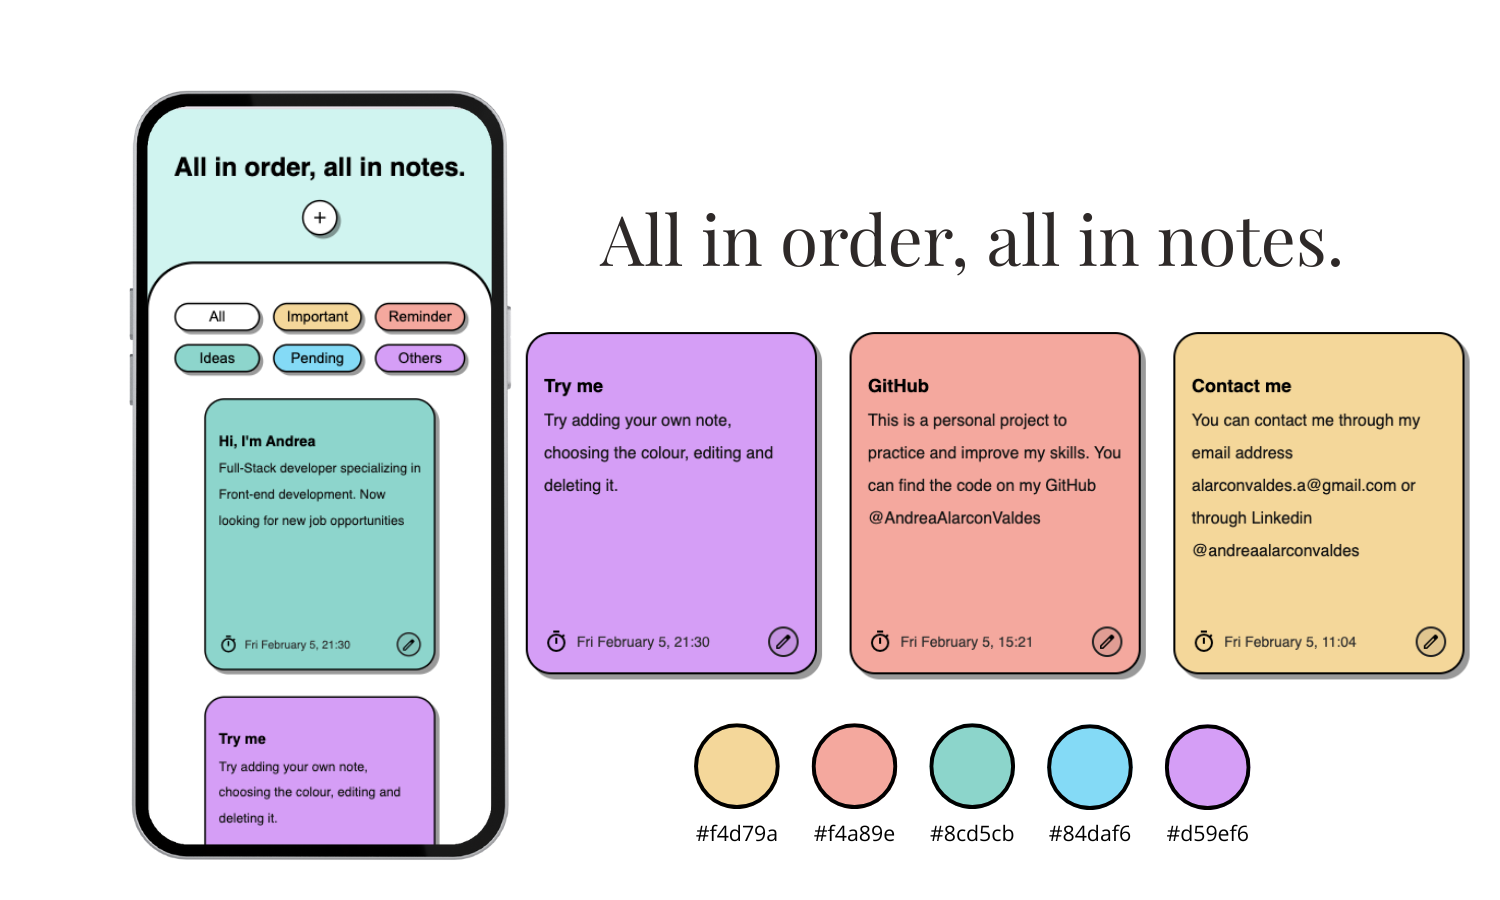
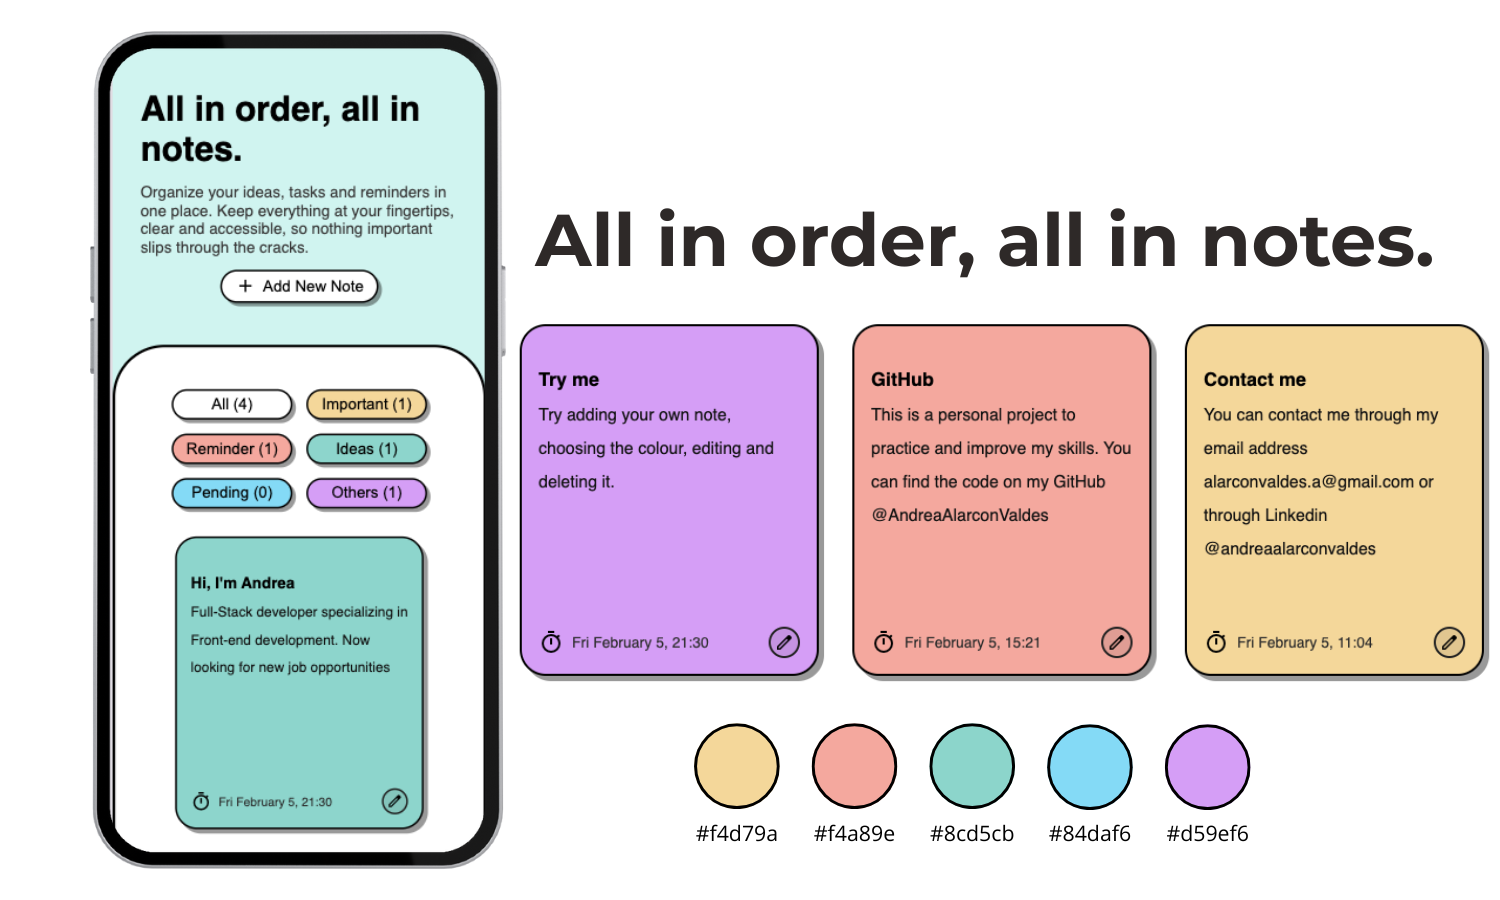
Add title

Changed region(s): [[0.0613, 0.0311, 1.0, 0.9644]]

diff --git a/src/components/note/NoteBoard.css b/src/components/note/NoteBoard.css
@@ -1,39 +1,54 @@
 .notes-page {
   height: 100vh;
   background-color: #d0f4f0;
-  /* background-size: 20px 20px;
-  background-image: repeating-linear-gradient(
-    0deg,
-    #fff,
-    #fff 1px,
-    #d0f4f0 1px,
-    #d0f4f0
-  ); */
 }
 
 .button-section {
   display: flex;
+  justify-content: center;
+  align-items: center;
+  gap: 1rem;
+  padding: 3rem 2rem;
+}
+
+.title-section {
+  display: flex;
   flex-direction: column;
   justify-content: center;
   align-items: center;
-  padding: 2rem;
+  gap: 1rem;
 }
-
+.title-section h1 {
+  margin: 0;
+  font-size: 40px;
+}
+.title-section p {
+  max-width: 650px;
+  margin: 0;
+  color: rgb(56, 56, 56);
+  font-size: 18px;
+}
 .button-section button {
   display: flex;
   align-items: center;
+  gap: .5rem;
   background-color: white;
   border: 2px solid black;
   box-shadow: 4px 4px 0px rgba(3, 3, 3, 0.4);
 
-  border-radius: 50%;
-  font-size: 30px;
-  padding: 0.5rem;
+  border-radius: 50px;
+  padding: 5px 15px;
+  font-size: 18px;
   transition: 0.2s ease-in-out;
 }
 .button-section button:hover {
   scale: 1.1;
 }
+
+.button-section button p{
+  margin: 0;
+}
+
 
 .notes-container {
   min-height: 100vh;
@@ -80,6 +95,9 @@
 }
 
 @media (max-width: 1000px) {
+  .button-section{
+    flex-direction: column;
+  }
   .filters {
     display: grid;
     grid-template-columns: repeat(3, 1fr);

diff --git a/src/components/note/NoteBoard.tsx b/src/components/note/NoteBoard.tsx
@@ -43,10 +43,13 @@ export function NoteBoard() {
     <>
       <div className="notes-page">
         <div className="button-section">
+          <div className="title-section">
           <h1>All in order, all in notes. </h1>
-
+<p>Organize your ideas, tasks and reminders in one place. Keep everything at your fingertips, clear and accessible, so nothing important slips through the cracks.</p>
+</div>
           <button onClick={openModal}>
             <span className="material-symbols-outlined add-symbol">add</span>
+            <p>Add New Note</p>
           </button>
         </div>
         <div className="notes-container">
